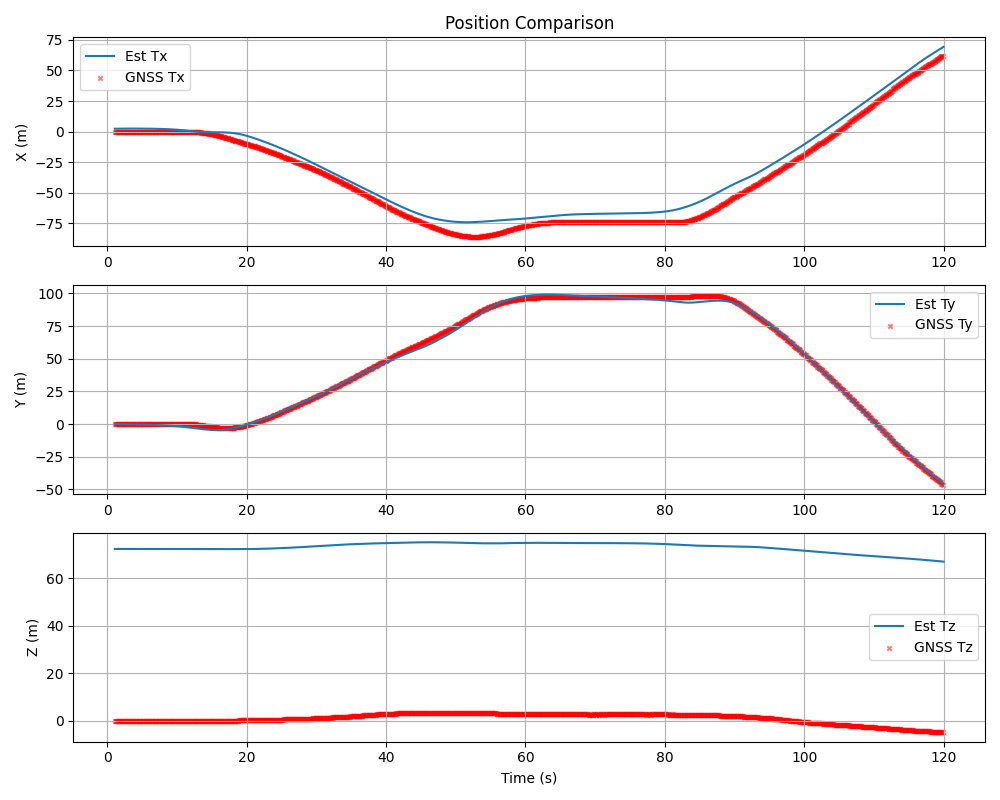
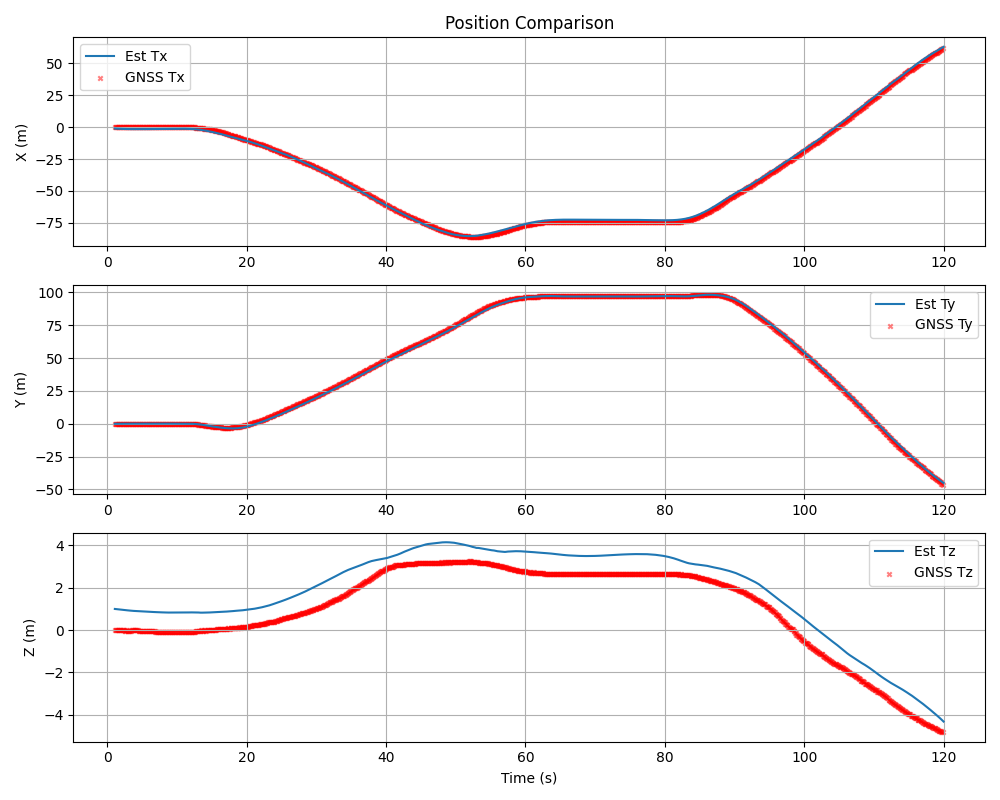
Fix Z-drift via LeverArm Prior and Add Error Plot

diff --git a/src/ob_gins_ct.cc b/src/ob_gins_ct.cc
@@ -38,6 +38,29 @@ int findControlPointIndex(double t, double t0, double dt, int max_idx) {
     return static_cast<int>(std::floor((t - dt - t0) / dt));
 }
 
+struct LeverArmPriorFactor {
+    LeverArmPriorFactor(const Eigen::Vector3d& prior, double sigma)
+        : prior_(prior), sigma_(sigma) {}
+
+    template <typename T>
+    bool operator()(const T* const l_ptr, T* residuals) const {
+        Eigen::Map<const Eigen::Matrix<T, 3, 1>> l(l_ptr);
+        
+        residuals[0] = (l[0] - T(prior_[0])) / T(sigma_);
+        residuals[1] = (l[1] - T(prior_[1])) / T(sigma_);
+        residuals[2] = (l[2] - T(prior_[2])) / T(sigma_);
+        return true;
+    }
+
+    static ceres::CostFunction* Create(const Eigen::Vector3d& prior, double sigma) {
+        return new ceres::AutoDiffCostFunction<LeverArmPriorFactor, 3, 3>(
+            new LeverArmPriorFactor(prior, sigma));
+    }
+
+    Eigen::Vector3d prior_;
+    double sigma_;
+};
+
 int main(int argc, char** argv) {
     google::InitGoogleLogging(argv[0]);
     FLAGS_logtostderr = 1;
@@ -224,11 +247,16 @@ int main(int argc, char** argv) {
     }
     
     double t0_spline = control_points.front().timestamp();
-    LOG(INFO) << "Initialized " << control_points.size() << " control points.";
-    LOG(INFO) << "Spline start time: " << t0_spline;
-
-        // 4. Build Factor Graph
-        LOG(INFO) << "Building Factor Graph...";
+        LOG(INFO) << "Initialized " << control_points.size() << " control points.";
+        LOG(INFO) << "Spline start time: " << t0_spline;
+        
+        // Debug: Check initial CP positions
+        for(size_t i=0; i<std::min((size_t)5, control_points.size()); ++i) {
+            LOG(INFO) << "Init CP[" << i << "] t=" << control_points[i].timestamp() 
+                      << " Pos: " << control_points[i].pose().translation().transpose();
+        }
+    
+        // 4. Build Factor Graph        LOG(INFO) << "Building Factor Graph...";
         ceres::Problem problem;
         auto* se3_manifold = new SophusSE3Manifold();
     
@@ -321,12 +349,16 @@ int main(int argc, char** argv) {
             gnss_residual_ids.push_back(id);
             added_gnss++;
         }
-        problem.AddParameterBlock(l_gnss.data(), 3);
-        if (!optimize_leverarm) {
-            problem.SetParameterBlockConstant(l_gnss.data());
-        }
-        LOG(INFO) << "Added " << added_gnss << " GNSS factors.";
-    
+            problem.AddParameterBlock(l_gnss.data(), 3);
+            if (!optimize_leverarm) {
+                problem.SetParameterBlockConstant(l_gnss.data());
+                } else {
+                    // Add Prior to prevent unobservability (especially in Z direction for cars)
+                    // Sigma = 0.01m (tight constraint to force bias estimation instead of lever arm drift)
+                    auto* prior_factor = LeverArmPriorFactor::Create(initial_l_gnss, 0.01);
+                    problem.AddResidualBlock(prior_factor, nullptr, l_gnss.data());
+                    LOG(INFO) << "Added LeverArm Prior (sigma=0.01m)";
+                }            LOG(INFO) << "Added " << added_gnss << " GNSS factors.";    
         auto EvaluateRMSE = [&](const std::string& label) {
             double cost_imu = 0, cost_gnss = 0;
             ceres::Problem::EvaluateOptions opt_imu;
@@ -354,12 +386,14 @@ int main(int argc, char** argv) {
         options.num_threads = 8;
     
         ceres::Solver::Summary summary;
-        ceres::Solve(options, &problem, &summary);
-        LOG(INFO) << summary.FullReport();
-    
-        EvaluateRMSE("Final");
-    
-        // 6. Export Result
+    ceres::Solve(options, &problem, &summary);
+    LOG(INFO) << summary.FullReport();
+
+    LOG(INFO) << "Optimized Lever Arms:";
+    LOG(INFO) << "  l_gnss (Body->Ant): " << l_gnss.transpose();
+    LOG(INFO) << "  l_imu (Body->IMU):  " << l_imu.transpose();
+
+    // 6. Export Result
         LOG(INFO) << "Exporting trajectory...";
         std::filesystem::path out_file = std::filesystem::path(output_path) / "OB_GINS_CT.txt";
         FILE* fp = fopen(out_file.string().c_str(), "w");

diff --git a/plot_ct_results.py b/plot_ct_results.py
@@ -55,6 +55,64 @@ def plot_results(file_path):
     plt.tight_layout()
     plt.savefig('ct_position.png')
 
+    # Plot Error (if GNSS available)
+    if gnss_data is not None:
+        import numpy as np
+        
+        # Interpolate Estimate to GNSS time
+        # Handle time range: only interp within overlapping range
+        t_est = data['Time'].values
+        t_gnss = gnss_data['Time'].values
+        
+        # Find common time range
+        t_min = max(t_est[0], t_gnss[0])
+        t_max = min(t_est[-1], t_gnss[-1])
+        
+        mask = (t_gnss >= t_min) & (t_gnss <= t_max)
+        t_eval = t_gnss[mask]
+        gnss_eval = gnss_data.loc[mask, ['Tx', 'Ty', 'Tz']].values
+        
+        # Interpolate
+        # est_pos = np.zeros_like(gnss_eval)
+        est_tx = np.interp(t_eval, t_est, data['Tx'].values)
+        est_ty = np.interp(t_eval, t_est, data['Ty'].values)
+        est_tz = np.interp(t_eval, t_est, data['Tz'].values)
+        
+        err_x = est_tx - gnss_eval[:, 0]
+        err_y = est_ty - gnss_eval[:, 1]
+        err_z = est_tz - gnss_eval[:, 2]
+        
+        rmse_x = np.sqrt(np.mean(err_x**2))
+        rmse_y = np.sqrt(np.mean(err_y**2))
+        rmse_z = np.sqrt(np.mean(err_z**2))
+        
+        print(f"Error RMSE -> X: {rmse_x:.4f} m, Y: {rmse_y:.4f} m, Z: {rmse_z:.4f} m")
+        
+        plt.figure(figsize=(10, 8))
+        plt.subplot(3, 1, 1)
+        plt.plot(t_eval, err_x, label=f'Err X (RMSE={rmse_x:.2f})')
+        plt.ylabel('Error X (m)')
+        plt.title('Position Error (Est - GNSS)')
+        plt.grid(True)
+        plt.legend()
+        
+        plt.subplot(3, 1, 2)
+        plt.plot(t_eval, err_y, label=f'Err Y (RMSE={rmse_y:.2f})')
+        plt.ylabel('Error Y (m)')
+        plt.grid(True)
+        plt.legend()
+        
+        plt.subplot(3, 1, 3)
+        plt.plot(t_eval, err_z, label=f'Err Z (RMSE={rmse_z:.2f})')
+        plt.ylabel('Error Z (m)')
+        plt.xlabel('Time (s)')
+        plt.grid(True)
+        plt.legend()
+        
+        plt.tight_layout()
+        plt.savefig('ct_error.png')
+        print("Saved error plot to ct_error.png")
+
     # Plot Velocity
     plt.figure(figsize=(10, 8))
     plt.subplot(3, 1, 1)
